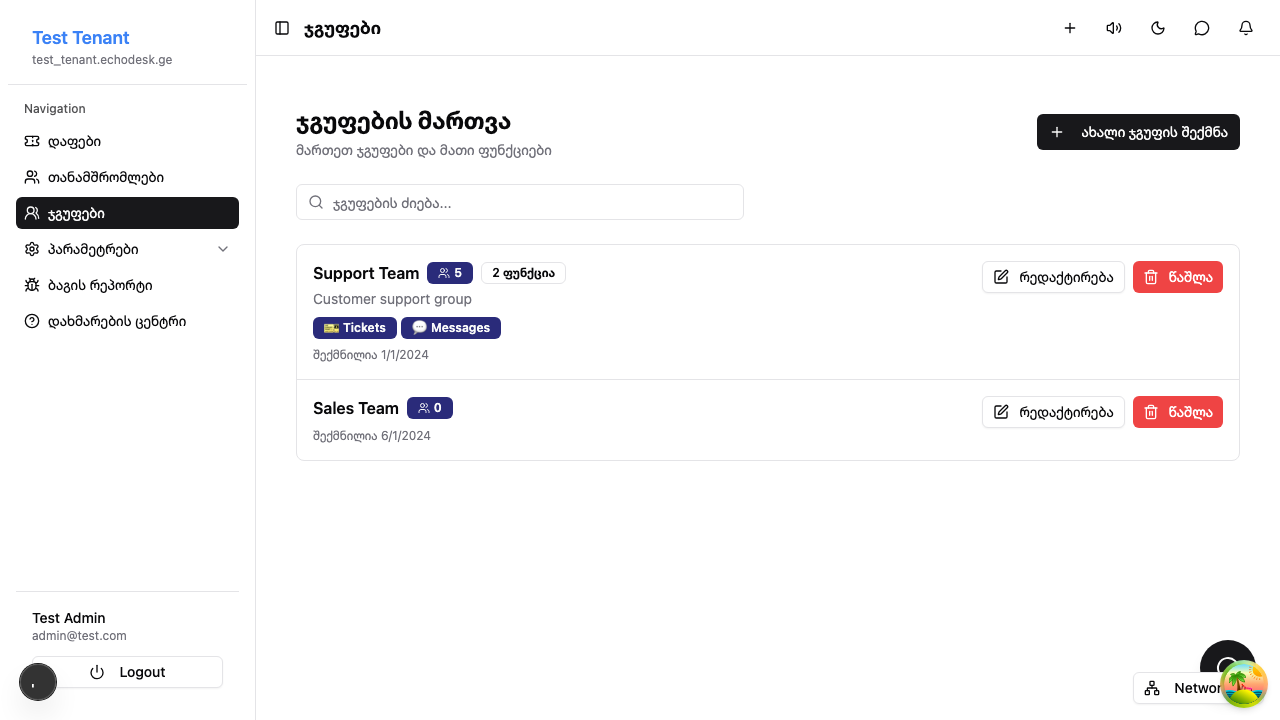
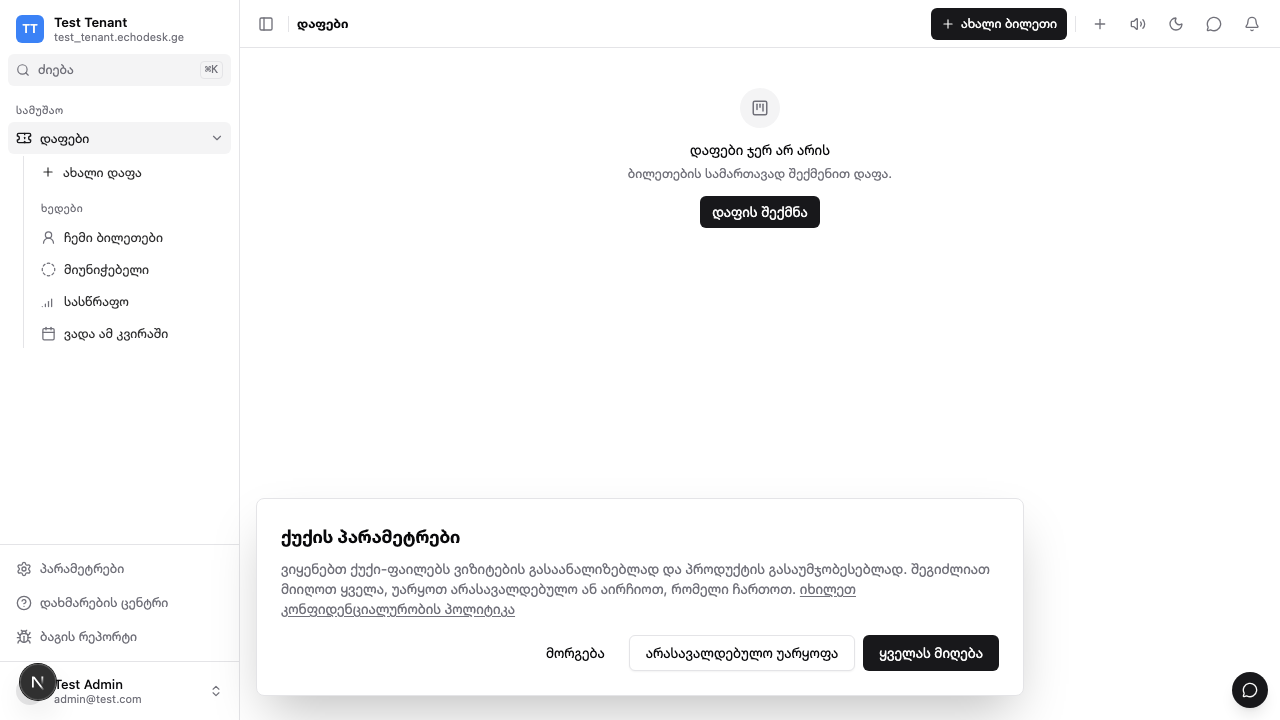
fix(tickets): W3 FE-INT - History & transfers names columns, assignees and departments instead of ids
FE-11 open issue: the dialog showed 'from 11 to 12' for status changes. It now
reuses the feed's id resolution (activity-format resolveHistoryEntry), with the
board's pickers loaded only while the dialog is open.

Claude-Session: https://claude.ai/code/session_01VBr9paAN5hdpEysvaq6YDt

diff --git a/src/app/(tenant)/tickets/[id]/_components/history-dialog.tsx b/src/app/(tenant)/tickets/[id]/_components/history-dialog.tsx
@@ -13,9 +13,11 @@ import { useLocale, useTranslations } from "next-intl";
 import { Dialog, DialogContent, DialogDescription, DialogHeader, DialogTitle } from "@/components/ui/dialog";
 import { Skeleton } from "@/components/ui/skeleton";
 import { useTicketHistory } from "../../_hooks/use-ticket";
+import { useTicketPickers } from "../../_hooks/use-ticket-pickers";
 import { formatDateTime, formatShortDate } from "../../_lib/format";
 import { isTicketPriority } from "../../_lib/priority";
 import type { HistoryEntry } from "../../_lib/types";
+import { resolveHistoryEntry, type EventLookups } from "./activity/activity-format";
 
 type Translate = (key: string, values?: Record<string, string | number>) => string;
 
@@ -102,14 +104,29 @@ export interface HistoryDialogProps {
   ticketId: number;
   open: boolean;
   onOpenChange: (open: boolean) => void;
+  /** The ticket's board: names the column / assignee / department ids in the rows. */
+  boardId?: number | null;
 }
 
-export function HistoryDialog({ ticketId, open, onOpenChange }: HistoryDialogProps) {
+export function HistoryDialog({ ticketId, open, onOpenChange, boardId }: HistoryDialogProps) {
   const t = useTranslations("ticketsScreen.activity");
   const tHistory = useTranslations("ticketsScreen.history");
   const tTickets = useTranslations("tickets");
   const locale = useLocale();
   const history = useTicketHistory(ticketId, { enabled: open });
+  // Status / assignee / department rows store ids: name them like the feed does.
+  const pickers = useTicketPickers(boardId ?? null, { enabled: open && !!boardId });
+  const lookups = useMemo<EventLookups>(() => {
+    const users = new Map<string, string>();
+    for (const u of pickers.users) {
+      users.set(String(u.id), u.full_name?.trim() || `${u.first_name ?? ""} ${u.last_name ?? ""}`.trim() || u.email);
+    }
+    return {
+      columns: new Map(pickers.columns.map((c) => [String(c.id), c.name])),
+      users,
+      departments: new Map(pickers.departments.map((d) => [String(d.id), d.name])),
+    };
+  }, [pickers.columns, pickers.users, pickers.departments]);
 
   const rows = useMemo(
     () =>
@@ -147,7 +164,7 @@ export function HistoryDialog({ ticketId, open, onOpenChange }: HistoryDialogPro
                     className="flex items-start gap-2.5 border-b py-2 text-[13px] leading-5 last:border-b-0"
                   >
                     <Icon aria-hidden="true" size={14} className="mt-[3px] shrink-0 text-muted-foreground" />
-                    <span className="min-w-0 flex-1 break-words">{historySentence(entry, labels)}</span>
+                    <span className="min-w-0 flex-1 break-words">{historySentence(resolveHistoryEntry(entry, lookups), labels)}</span>
                     <time
                       dateTime={entry.created_at}
                       className="shrink-0 whitespace-nowrap text-xs tabular-nums text-muted-foreground"

diff --git a/tests/unit/tickets/detail/history-dialog.test.tsx b/tests/unit/tickets/detail/history-dialog.test.tsx
@@ -8,7 +8,7 @@ vi.mock("@/api/axios", () => ({ default: { get: vi.fn(), post: vi.fn(), patch: v
 import axios from "@/api/axios";
 import { HistoryDialog, historySentence } from "@/app/(tenant)/tickets/[id]/_components/history-dialog";
 import type { HistoryEntry } from "@/app/(tenant)/tickets/_lib/types";
-import { renderDetail, routeAxios } from "./helpers";
+import { page, renderDetail, routeAxios } from "./helpers";
 
 const nino = { id: 4, email: "nino@x.ge", first_name: "Nino", last_name: "Beridze" } as unknown as HistoryEntry["user"];
 
@@ -75,6 +75,27 @@ describe("HistoryDialog", () => {
     routeAxios(axios, { get: { "/api/tickets/10/history/": () => [] } });
     renderDetail(<HistoryDialog ticketId={10} open onOpenChange={() => {}} />);
     expect(await screen.findByText("No history yet")).toBeInTheDocument();
+  });
+
+  it("names the column ids of status changes from the board's columns (W3 FE-INT)", async () => {
+    routeAxios(axios, {
+      get: {
+        "/api/tickets/10/history/": () => [
+          row({ id: 9, action: "status_changed", field_name: "column_id", old_value: "11", new_value: "12" }),
+        ],
+        "/api/columns/": () => page([{ id: 11, name: "To Do", position: 1 }, { id: 12, name: "In Progress", position: 2 }]),
+        "/api/users/": () => page([]),
+        "/api/boards/": () => ({ id: 1, order_users: [], board_users: [], board_groups: [] }),
+        "/api/tags/": () => page([]),
+        "/api/tenant-groups/": () => page([]),
+        "/api/departments/": () => page([]),
+      },
+    });
+    renderDetail(<HistoryDialog ticketId={10} boardId={1} open onOpenChange={() => {}} />);
+    const dialog = await screen.findByTestId("history-dialog");
+    const item = await within(dialog).findByText(/In Progress/);
+    expect(item).toHaveTextContent(/To Do/);
+    expect(item.textContent).not.toMatch(/\b11\b|\b12\b/);
   });
 
   it("does not fetch while closed", () => {

diff --git a/src/app/(tenant)/tickets/[id]/_components/activity/activity-format.ts b/src/app/(tenant)/tickets/[id]/_components/activity/activity-format.ts
@@ -61,6 +61,21 @@ function resolve(raw: string | null, field: string, lookups: EventLookups): stri
   return stripHtml(value);
 }
 
+/**
+ * A `/history/` row with its id values (column, assignee, department) named,
+ * for the History & transfers dialog (same rules as the feed).
+ */
+export function resolveHistoryEntry(entry: HistoryEntry, lookups: EventLookups): HistoryEntry {
+  const field = entry.field_name || "";
+  if (!ID_FIELDS[field]) return entry;
+  return {
+    ...entry,
+    field_name: FIELD_ALIASES[field] ?? field,
+    old_value: resolve(entry.old_value, field, lookups),
+    new_value: resolve(entry.new_value, field, lookups),
+  };
+}
+
 /** Marks where the actor's name sits in the translated sentence. */
 const NAME_MARK = "";
 

diff --git a/src/app/(tenant)/tickets/[id]/_components/detail-screen.tsx b/src/app/(tenant)/tickets/[id]/_components/detail-screen.tsx
@@ -205,7 +205,12 @@ function ReadyDetail({ ticket, nav }: { ticket: TicketDetail; nav: ReturnType<ty
           pending={transfer.pending}
         />
       )}
-      <HistoryDialog ticketId={ticket.id} open={historyOpen} onOpenChange={setHistoryOpen} />
+      <HistoryDialog
+        ticketId={ticket.id}
+        boardId={ticket.board?.id ?? ticket.column?.board ?? null}
+        open={historyOpen}
+        onOpenChange={setHistoryOpen}
+      />
       {perms.can_delete && (
         <DeleteTicketDialog
           ticketId={ticket.id}
